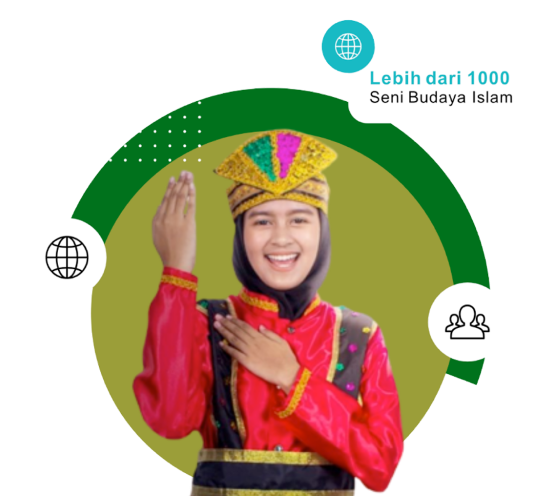
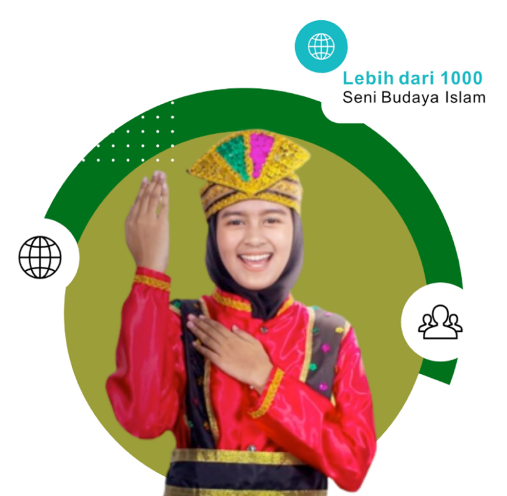
update landing

diff --git a/resources/views/landing/pages/home1.blade.php b/resources/views/landing/pages/home1.blade.php
@@ -67,8 +67,8 @@
             .image-section .main-image {
                 position: relative;
                 z-index: 1;
-                width: 547px;
-                height: 508px;
+                width: 90%;
+                height: auto;
             }
 
             .info-badge {
